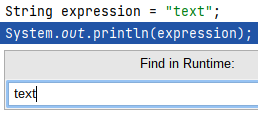
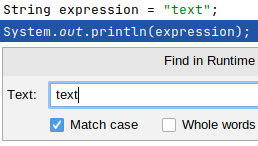
Update documentation and screenshot

diff --git a/README.md b/README.md
@@ -18,7 +18,7 @@ Before using, open the Debug Configuration you would like to use via **Run | Edi
 
 To start searching, select **Run | Find in Runtime**, enter the searched string and press Find. If the program is not yet being debugged, a new process will be started. Then interact with the running application. As soon as any string expression in the program will contain the searched string (substrings are matched), the process will be paused. You can use traditional debugging actions (e.g., Step Over) or search for the next occurrence via **Run | Find Next in Runtime**.
 
-For a tutorial and sample use cases, watch the [video](https://sulir.github.io/runtimesearch/#video) or read the [paper](https://sulir.github.io/runtimesearch/#article).
+For a tutorial and sample use cases, please watch the [video](https://sulir.github.io/runtimesearch/#video) or read the [paper](https://sulir.github.io/runtimesearch/#article).
 <!--/plugin-desc-->
 
 ## Building from Source
@@ -31,7 +31,7 @@ The resulting plugin will be stored in `dist/runtimesearch-plugin-*.zip`. It can
 
 ## Internals
 
-The project consists of an IntelliJ IDEA plugin and a bytecode [instrumentation agent](https://docs.oracle.com/en/java/javase/11/docs/api/java.instrument/java/lang/instrument/package-summary.html). The initial configuration is passed from the IDE to the agent via command-line arguments when executing the target program:
+The project consists of an IntelliJ IDEA plugin and a bytecode [instrumentation agent](https://docs.oracle.com/en/java/javase/17/docs/api/java.instrument/java/lang/instrument/package-summary.html). The initial configuration is passed from the IDE to the agent via command-line arguments when executing the target program:
 
     java -javaagent:$RUNTIMESEARCH_PATH/dist/runtimesearch-agent.jar=$PORT \
         -Druntimesearch.include=$INCLUDE_PATTERN \
@@ -41,7 +41,7 @@ The project consists of an IntelliJ IDEA plugin and a bytecode [instrumentation 
         -Druntimesearch.regex=$REGEX \
         -jar target.jar
 
-`$RUNTIMESEARCH_PATH` is the path to the RuntimeSearch project, `$PORT` is the server port where the agent should listen for commands, `$INCLUDE_PATTERN` contains a regular expression deciding which classes should be instrumented (e.g., `com\.example\..*`), and `$TEXT` is the text to search. `$MATCH_CASE`, `$WHOLE_WORDS`, and `$REGEX` represent a searching options (true/false). The agent's argument and all system properties are optional.
+`$RUNTIMESEARCH_PATH` is the path to the RuntimeSearch project, `$PORT` is the server port where the agent should listen for commands, `$INCLUDE_PATTERN` contains a regular expression deciding which classes should be instrumented (e.g., `com\.example\..*`), and `$TEXT` is the text to search. `$MATCH_CASE`, `$WHOLE_WORDS`, and `$REGEX` represent a searching options (true/false; whole words and regex are mutually exclusive). The agent's argument and all system properties are optional.
 
 The agent inserts a call to a checking method after each instruction which can push a String to the stack. Further communication (e.g., a change of the searched text) is performed via sockets &ndash; see the source code for details.
 

diff --git a/docs/index.md b/docs/index.md
@@ -2,7 +2,7 @@ RuntimeSearch is a debugger extension which searches the given text in the value
 
 ## Video
 
-**Note for plugin users:** The "Find in Runtime" action has recently been moved from the *Navigate* menu to the **Run** menu.
+**Note for plugin users:** The "Find in Runtime" action was moved from the *Navigate* menu to the **Run** menu.
 
 <video width="960" height="540" controls>
   <source src="video.mp4" type="video/mp4">
